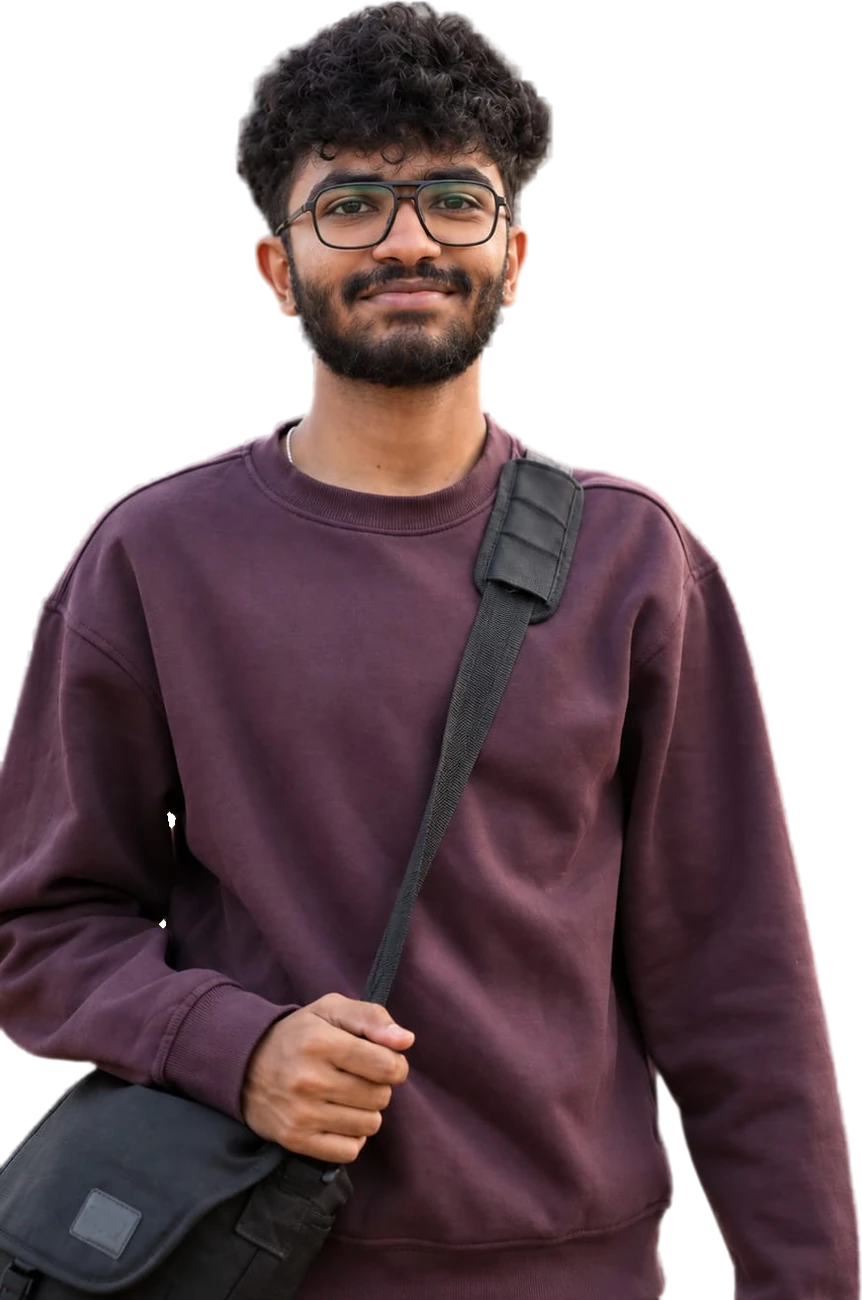
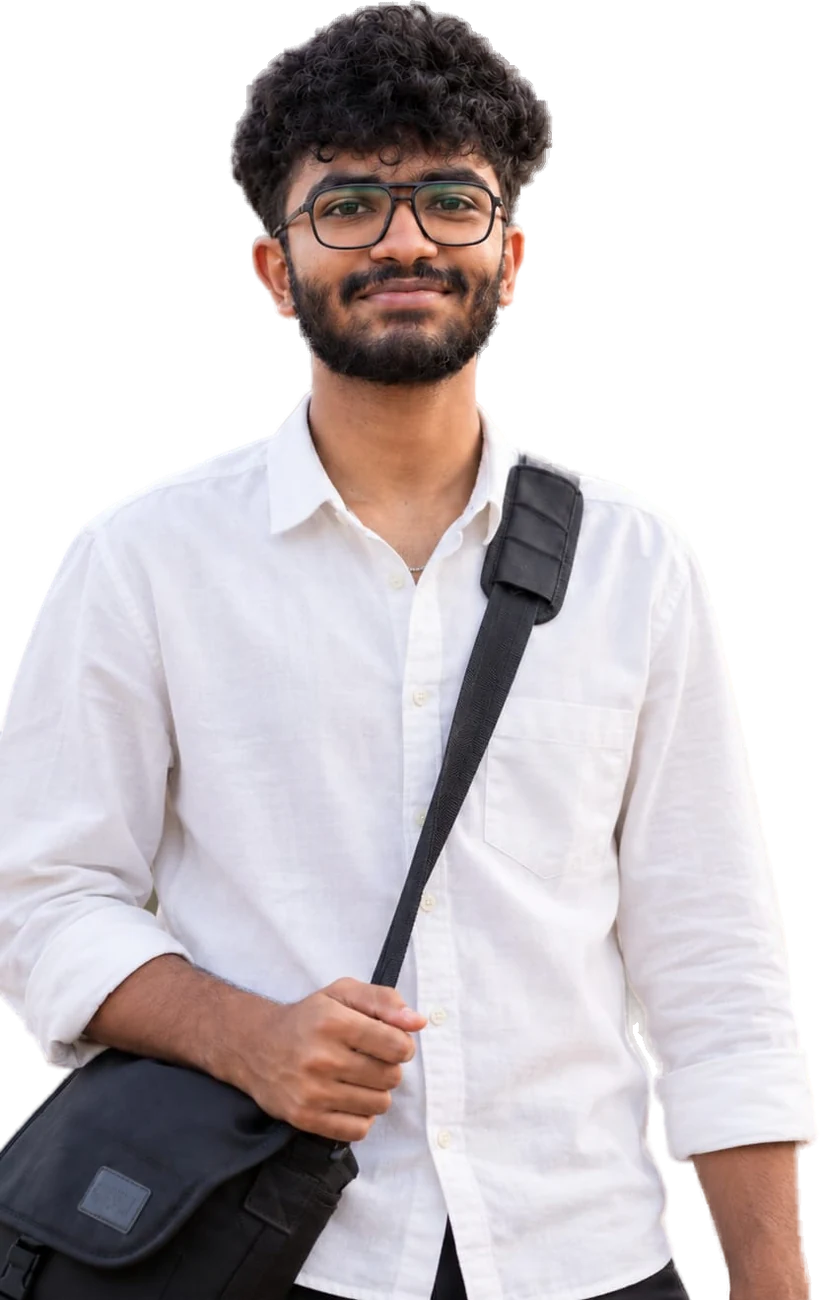
Add files via upload

diff --git a/index.html b/index.html
@@ -44,7 +44,7 @@ button{font-family:inherit}
 #hright .dot{width:7px;height:7px;border-radius:50%;background:var(--amber);box-shadow:0 0 9px var(--amber)}
 #hscroll{position:absolute;left:50%;bottom:2.5%;width:1px;height:34px;background:linear-gradient(#fff,transparent);z-index:3;animation:sc 1.8s ease-in-out infinite}
 @keyframes sc{0%,100%{opacity:.25}50%{opacity:.9}}
-@media(max-width:900px){#hname{top:12%;font-size:15.5vw}#hsil{height:58%;bottom:13%}#hleft{left:0;right:0;max-width:none;text-align:center;bottom:6%;padding:0 22px}#hleft h1{font-size:17px;margin:8px 0 14px}.hbtn{justify-content:center}#hright{display:none}#hscroll{display:none}}
+@media(max-width:900px){#hname{top:12%;font-size:15.5vw}#hsil{height:58%;bottom:13%}#hleft{left:0;right:0;max-width:none;text-align:center;bottom:0;padding:70px 22px 6%;background:linear-gradient(to top,rgba(6,7,11,.96) 60%,rgba(6,7,11,0))}#hleft h1{font-size:17px;margin:8px 0 14px}.hbtn{justify-content:center}#hright{display:none}#hscroll{display:none}}
 .tcard{position:absolute;inset:0;display:grid;place-items:center;text-align:center;padding:0 7vw;font-family:'Arial Black',Impact,sans-serif;text-transform:uppercase;z-index:5;opacity:0}
 .tcard small{display:block;font-family:Georgia,serif;letter-spacing:.5em;font-size:clamp(11px,1.5vw,15px);color:#c9c4b0;font-weight:400;margin-bottom:10px}
 .tcard h2{margin:0;font-size:clamp(28px,6.4vw,84px);letter-spacing:.03em;line-height:1.04}
@@ -257,7 +257,7 @@ let mx=0,my=0;
   if(CONFIG.linkedin)add('LinkedIn',CONFIG.linkedin,false,true);
   if(CONFIG.email)$('cmail').innerHTML='<a href="mailto:'+CONFIG.email+'" style="color:#cfd3e6">'+CONFIG.email+'</a><br><br>';
   if(CONFIG.trishulxEmail||CONFIG.email){const te=CONFIG.trishulxEmail||CONFIG.email;$('txA').href='mailto:'+te+'?subject=TrishulX';$('txA').onclick=e=>{e.preventDefault();openContact('TrishulX',te)}}
-  if(CONFIG.photo)$('hsil').innerHTML='<img src="'+CONFIG.photo+'" alt="Rohith V" width="863" height="1300" fetchpriority="high">';
+  if(CONFIG.photo)$('hsil').innerHTML='<img src="'+CONFIG.photo+'" alt="Rohith V" width="822" height="1300" fetchpriority="high">';
 })();
 
 /* grain */
